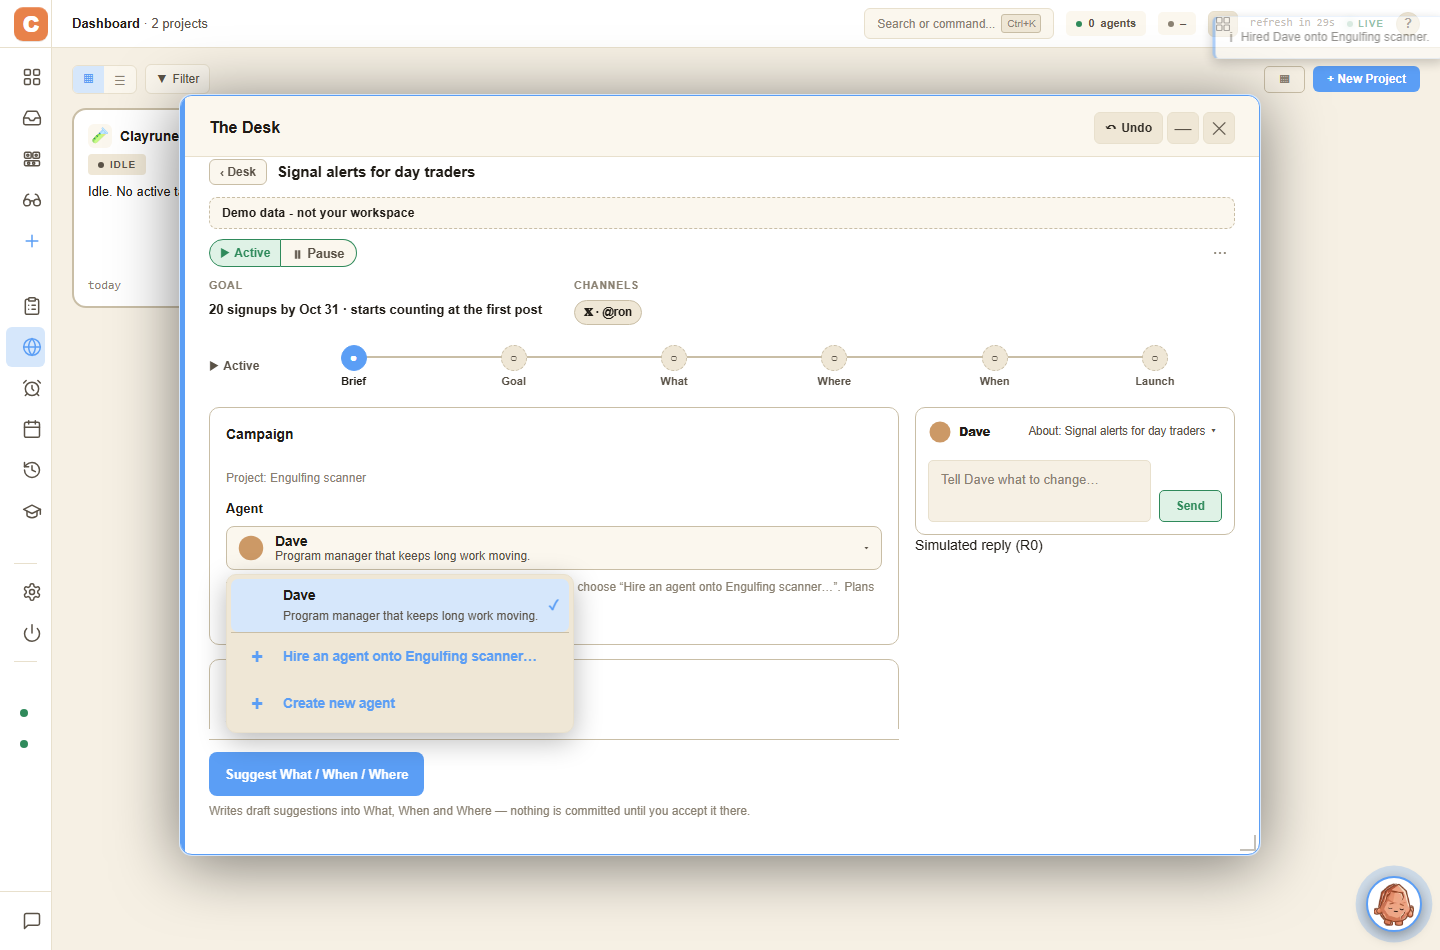
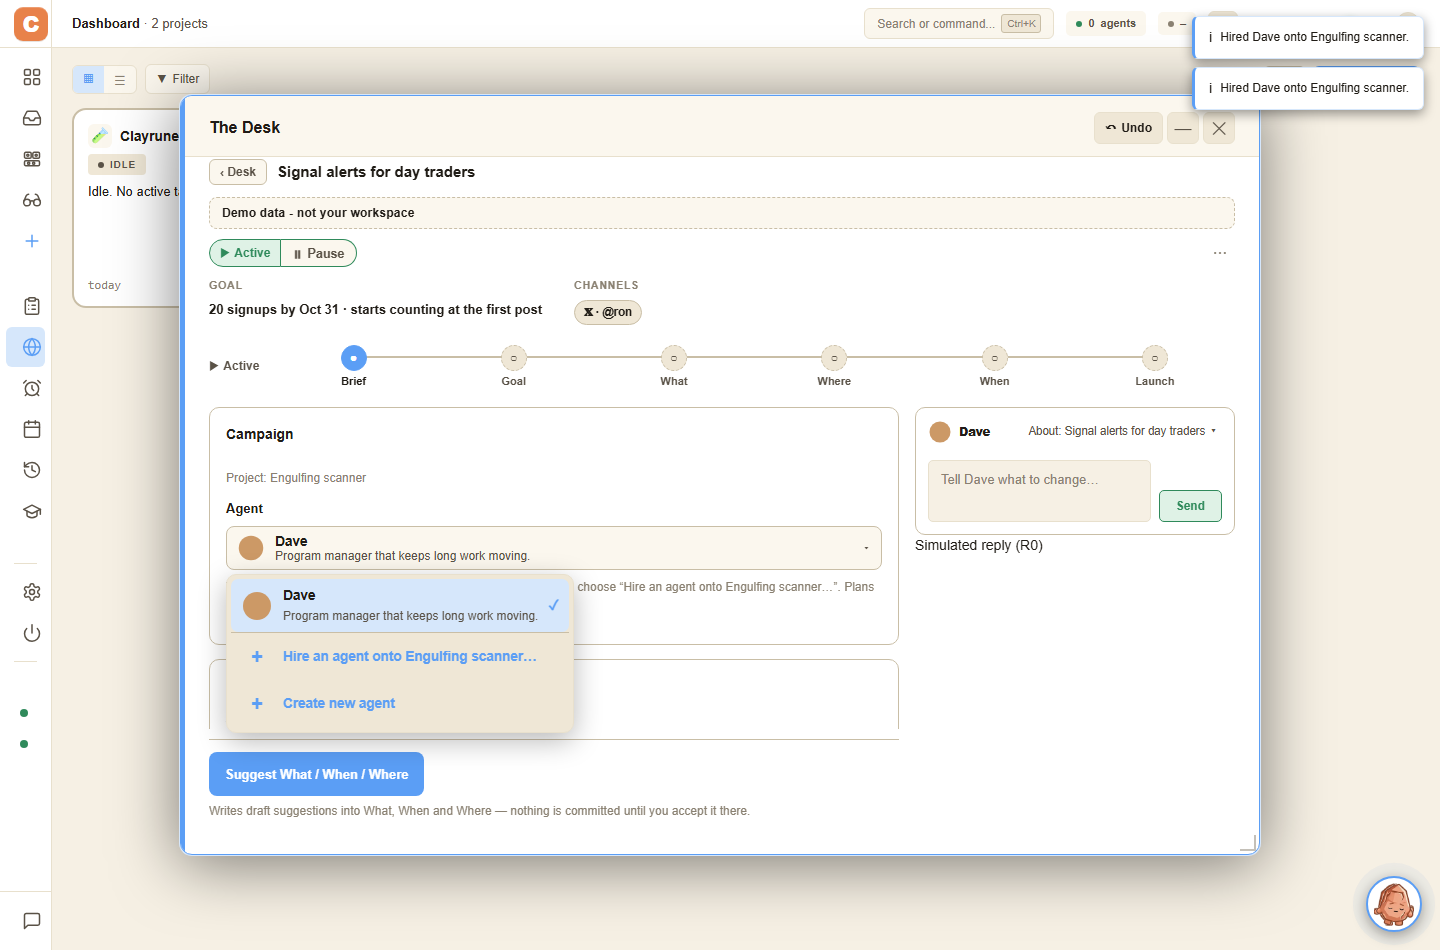
Desk agent picker: sheet clears the toast at 390; smoke asserts every row has a loaded figure
The selected row did have its figure (img.av-fig); the 1440 shot caught it mid-load
because the smoke's avatar stub sent no cache header (the real route sends max-age=86400).
Stub now caches, openPicker waits for figures, and every non-action row incl. the
selected one is asserted. At <=640px the toast (bottom, MC-977) lay across the sheet;
it moves to the top while the sheet is open, with a rect-overlap assertion. Re-shot both.

Changed region(s): [[0.8125, 0.0, 1.0, 0.1221], [0.9375, 0.9158, 1.0, 1.0], [0.1562, 0.6105, 0.1875, 0.6716]]

diff --git a/static/css/desk-v1.css b/static/css/desk-v1.css
@@ -356,6 +356,14 @@
   }
   .desk-v1-agentlist-title { display: block; font-size: 13px; font-weight: 700; color: var(--text); padding: 10px 10px 6px; }
   .desk-v1-agentlist-row { min-height: 54px; }
+  /* The Desk parks its toast at the BOTTOM on a phone (MC-977, above the tab
+     bar), which is exactly where this sheet sits, and the toast's z-index
+     (100000) is above the sheet's: "Hired Dave onto …" lay across the Hire row.
+     While the sheet is open the toast goes to the top instead, over the dimmed
+     header. Selector carries the Desk scope so it outranks the MC-977 rule. */
+  body:has(.desk-v1-agentlist-layer):has(.modal-window[data-modal-id="__desk"]) #toast-container {
+    top: calc(10px + env(safe-area-inset-top, 0px)); bottom: auto;
+  }
 }
 
 /* The Agent picker's trigger on the Campaign card: a full-width field showing

diff --git a/CHANGELOG.md b/CHANGELOG.md
@@ -22,7 +22,11 @@
 - The right-hand agent box only shows the chosen agent (figure + name, not a
   control). With none chosen it reads "No agent yet, pick one in Campaign" and that
   link takes you to the Campaign card's picker.
-- Smokes: `desk-campaign-ui-fixes.mjs` (no `<select>`, figures per row, hire ->
+- On a phone the bottom sheet no longer sits under the Desk's toast: toasts sit at
+  the bottom there (MC-977) and out-ranked the sheet, so "Hired Dave onto …" lay
+  across the Hire row. While the sheet is open the toast moves to the top.
+- Smokes: `desk-campaign-ui-fixes.mjs` (no `<select>`, figures per row incl. the
+  selected one, a toast clear of the open list, hire ->
   selected, right box inert, no `fig:` text), `desk-v1-how.mjs`, `-journey.mjs`,
   `-campaign.mjs`, `-live-writes.mjs`.
 
